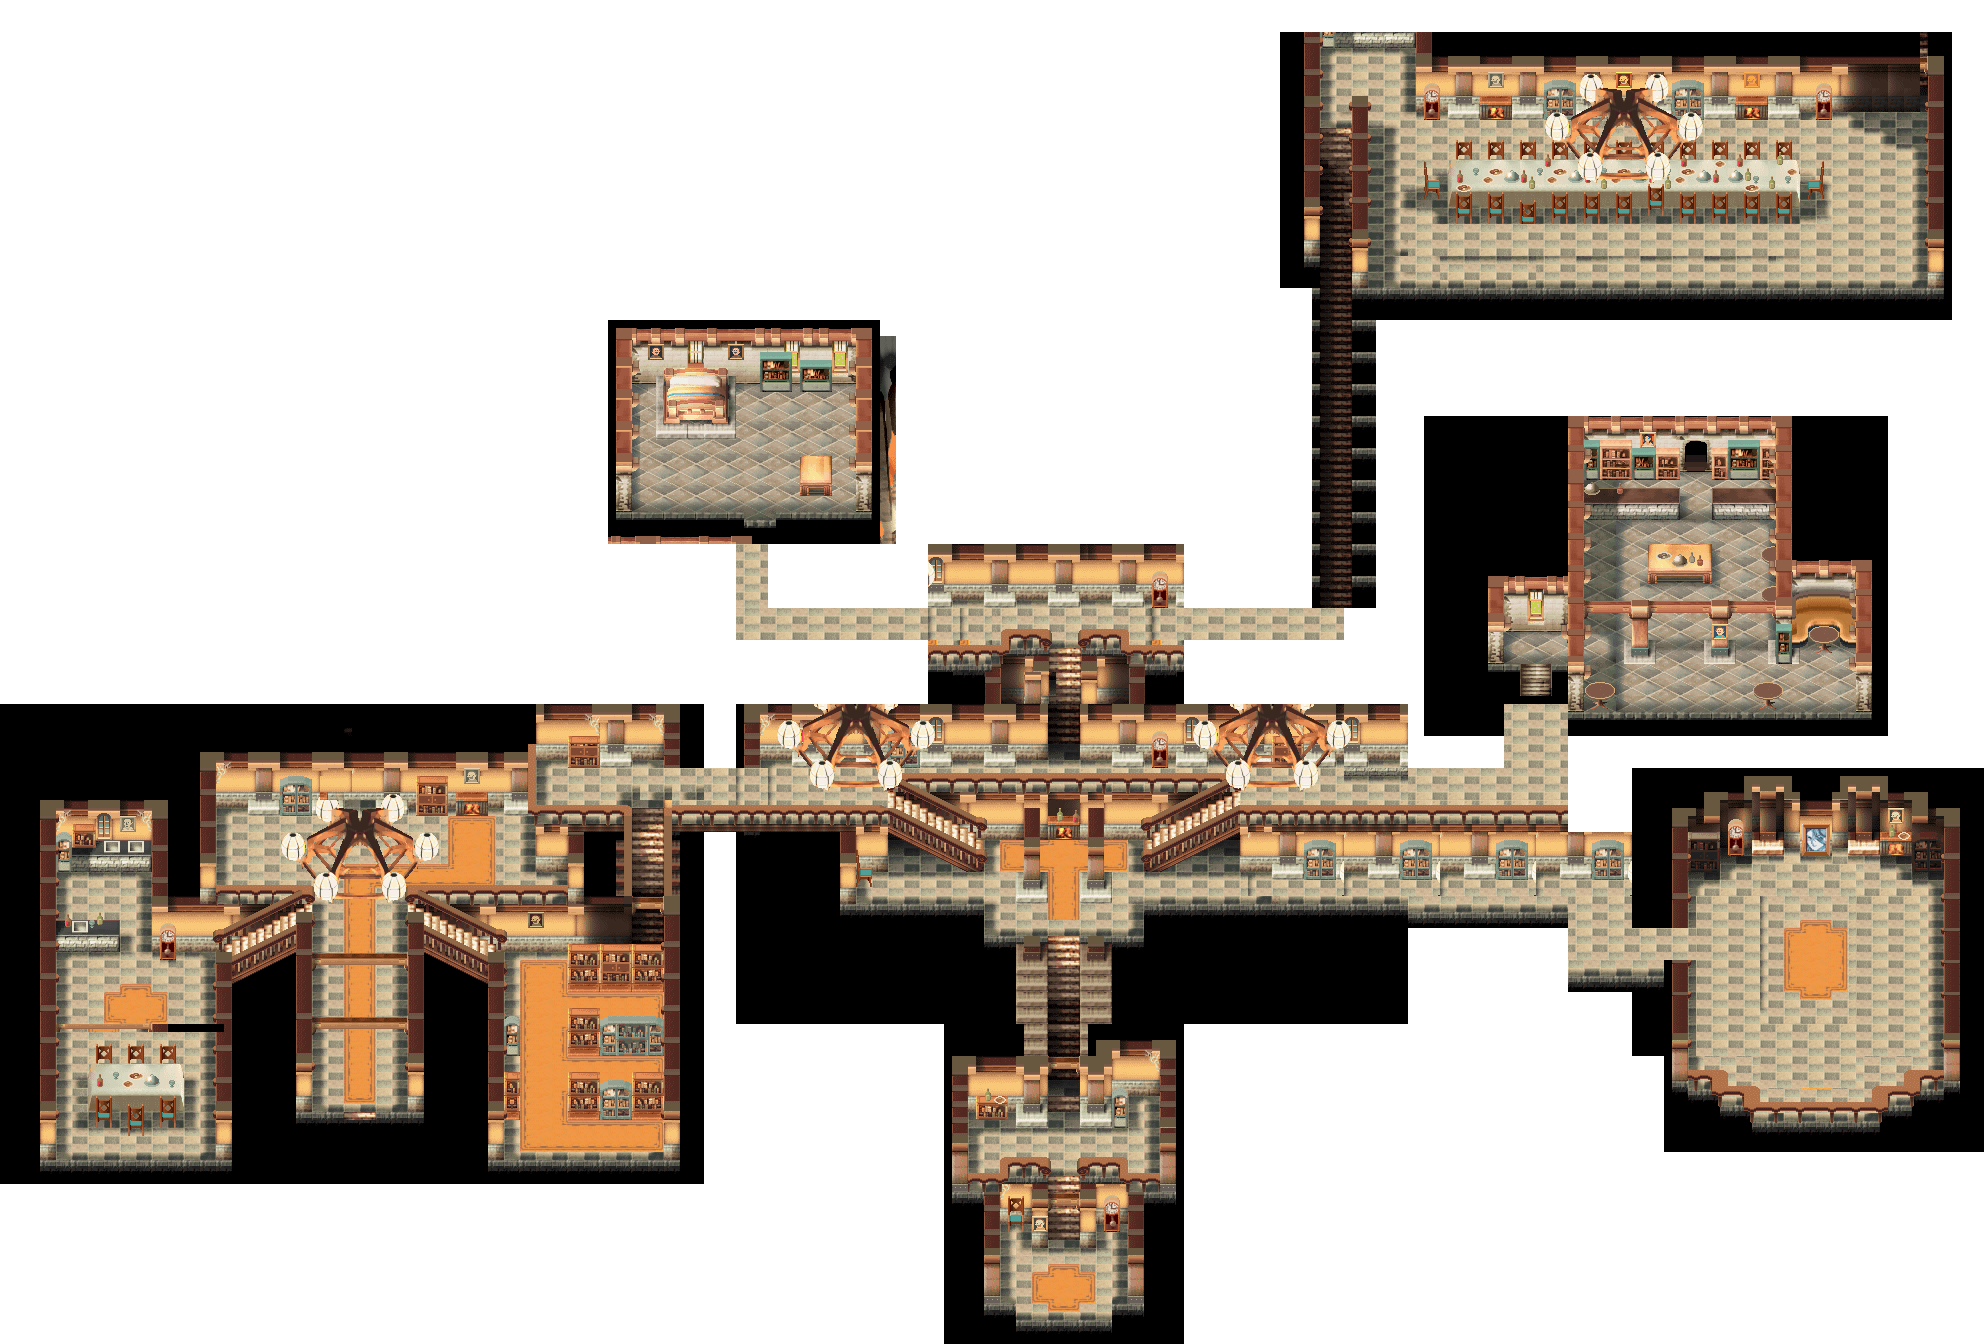
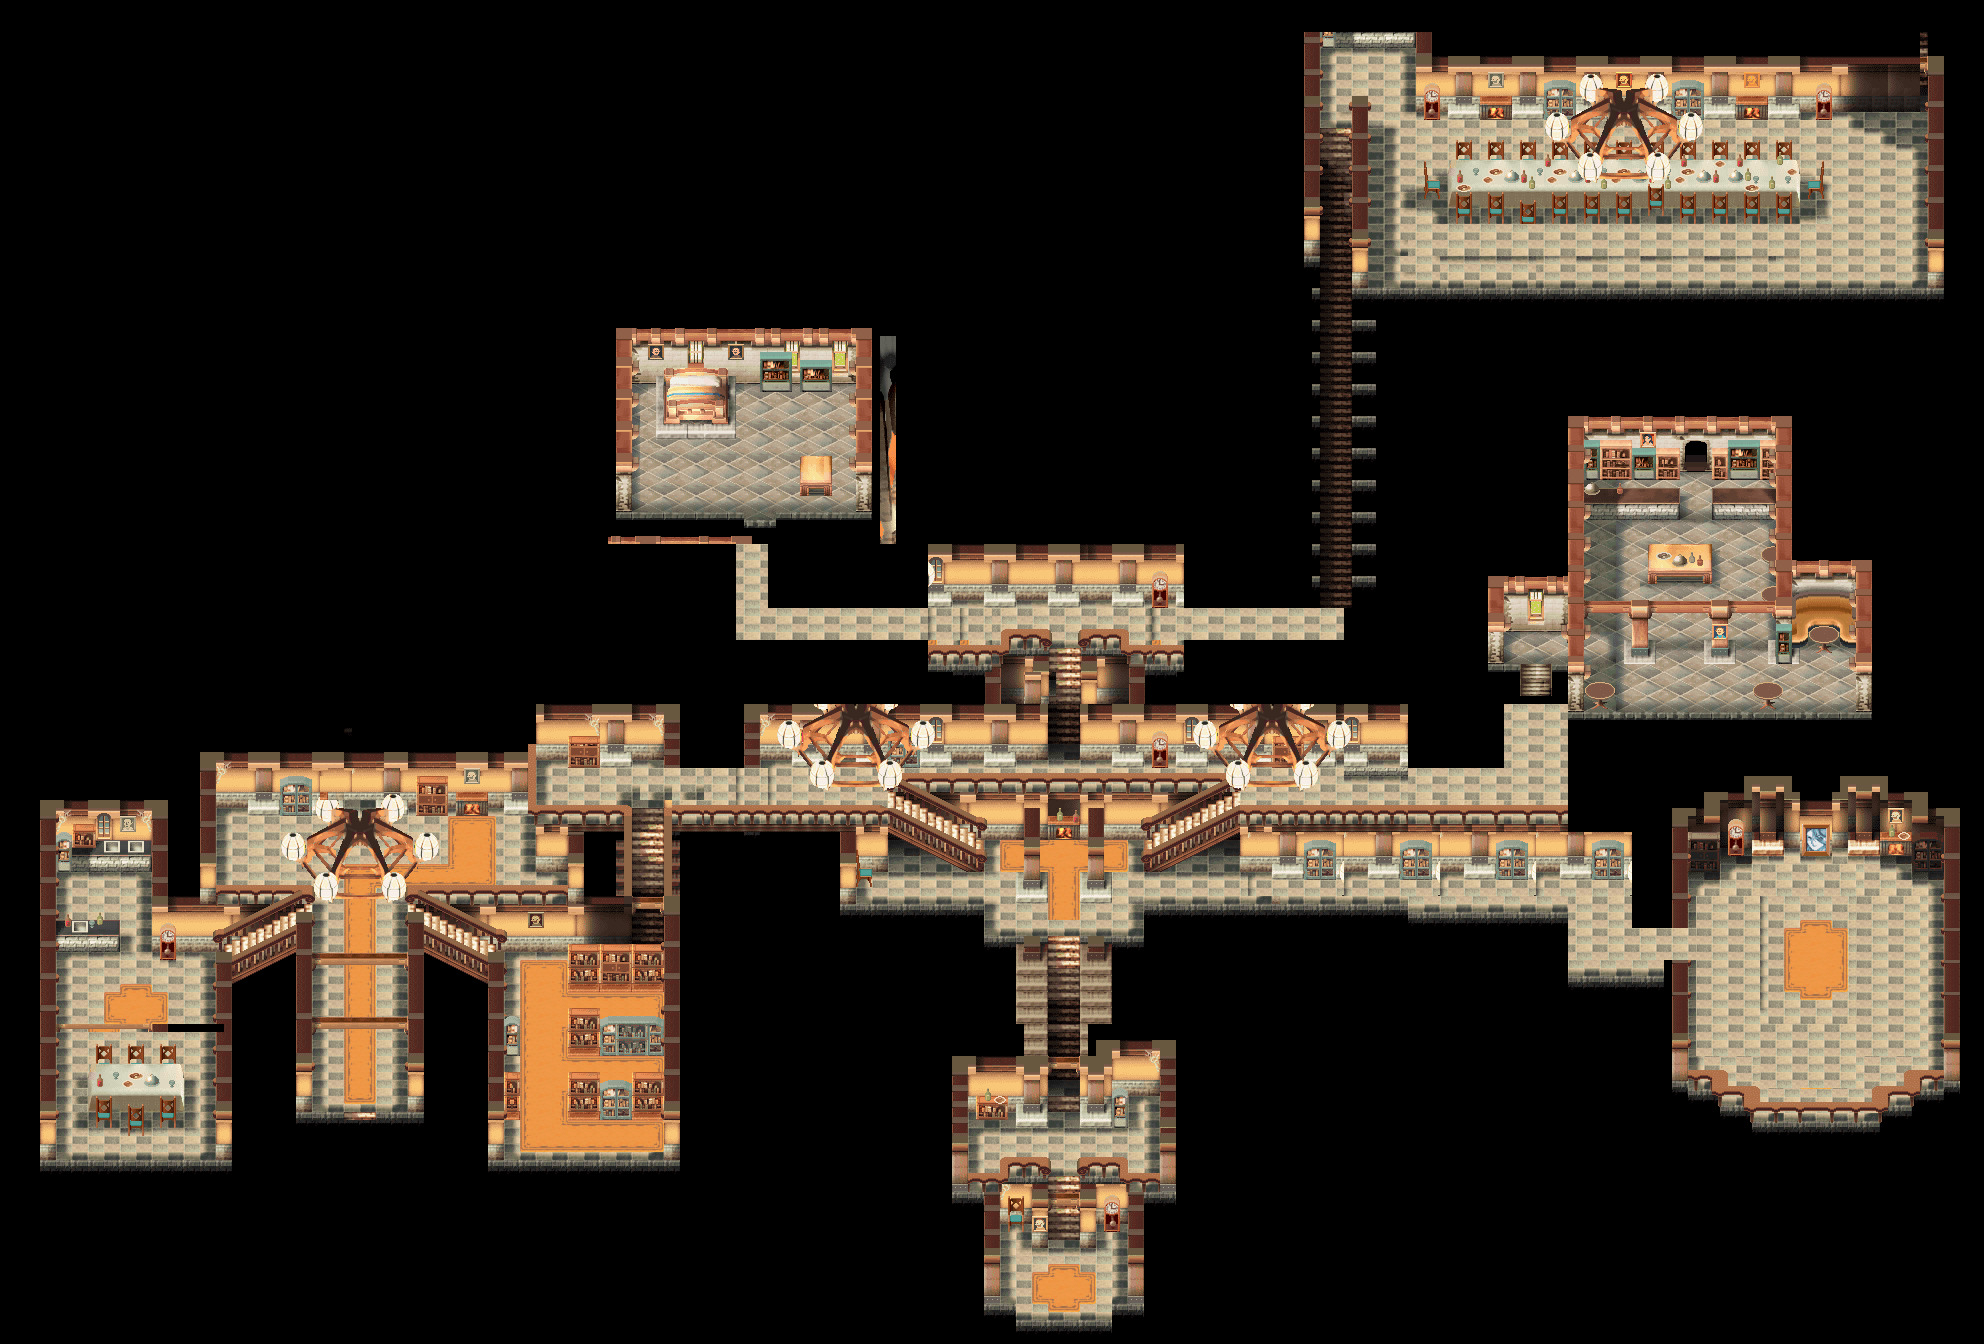
Correcciones en primera fase. Nuevo mapa, posiciones arregladas y scroll

diff --git a/src/intro.py b/src/intro.py
@@ -14,8 +14,11 @@ from pygame.locals import *
 VELOCIDAD_SOL = 0.1 # Pixeles por milisegundo
 
 
-MINIMO_X_JUGADOR = 50
+MINIMO_X_JUGADOR = 100
 MAXIMO_X_JUGADOR = ANCHO_PANTALLA - 100
+
+MINIMO_Y_JUGADOR = 100
+MAXIMO_Y_JUGADOR = ALTO_PANTALLA - 100
 
 class Intro(EscenaPygame):
     def __init__(self, director, jugador1):
@@ -46,20 +49,24 @@ class Intro(EscenaPygame):
         # De esta forma, se podrian tener muchas fases distintas con esta clase
 
         # Cargamos el decorado
-        self.image = load_image('../res/maps/primerinterior.png', -1)
-        self.image = pygame.transform.scale(self.image, (ANCHO_PANTALLA, ALTO_PANTALLA))
-
+#         self.image = load_image('../res/maps/primerinterior.png', -1)
+        self.image = load_image('../res/maps/mapa.png', -1)
+#         self.image = pygame.transform.scale(self.image, (ANCHO_PANTALLA, ALTO_PANTALLA))
+        self.image = pygame.transform.scale(self.image, (ANCHO_PANTALLA*2, ALTO_PANTALLA))
         self.rect = self.image.get_rect()
         self.rect.bottom = ALTO_PANTALLA
-
+        
         # Creamos el fondo
         #self.sol = Fondo('../res/maps/gransalon.png')
 
         # Que parte del decorado estamos visualizando
         self.posicionx = 0
+        self.posiciony = 0
         self.rectSubimagen = pygame.Rect(0, 0, ANCHO_PANTALLA, ALTO_PANTALLA)
-        self.rectSubimagen.left = self.posicionx
-
+#         self.rectSubimagen.left = self.posicionx
+#         self.rectSubimagen.bottom = self.posiciony
+        self.rectSubimagen.topleft = (self.posicionx, self.posiciony)
+        
         # Creamos las plataformas del decorado
         # La plataforma que conforma todo el suelo
         plataformaSuelo = Plataforma(pygame.Rect(0, 550, 1200, 15))
@@ -70,6 +77,97 @@ class Intro(EscenaPygame):
 
     def posicionesInicioJugadores(self):
         return self.inicioJugador1
+    
+    
+    # Desplaza todo el decorado y los objetos (plataformas, enemigos) que hay en el
+    def desplazarDecoradox(self, desplazamiento, jugadorAMover):
+        # Desplazamos el jugador a mover hacia el lado contrario
+        jugadorAMover.posicionx -= desplazamiento
+        jugadorAMover.rect.left = jugadorAMover.posicionx
+        # La imagen que se muestra hacia ese lado
+        self.posicionx += desplazamiento
+
+        # Actualizamos el grupo de plataformas para que tambien se desplacen al lado contrario
+        self.grupoPlataformas.update(-desplazamiento)
+
+        # Actualizamos cual es la parte de la imagen del decorado que se muestra en pantalla
+        self.rectSubimagen.left = self.posicionx
+        
+        # Desplaza todo el decorado y los objetos (plataformas, enemigos) que hay en el
+    def desplazarDecoradoy(self, desplazamiento, jugadorAMover):
+        # Desplazamos el jugador a mover hacia el lado contrario
+        jugadorAMover.posiciony -= desplazamiento
+        jugadorAMover.rect.top = jugadorAMover.posiciony
+        # La imagen que se muestra hacia ese lado
+        self.posiciony += desplazamiento
+
+        # Actualizamos el grupo de plataformas para que tambien se desplacen al lado contrario
+        self.grupoPlataformas.update(-desplazamiento)
+
+        # Actualizamos cual es la parte de la imagen del decorado que se muestra en pantalla
+        self.rectSubimagen.topleft = (self.posicionx, self.posiciony)
+    
+    def actualizarScroll(self, jugador1):
+#         if (jugador1.posicionx<=MINIMO_X_JUGADOR):
+#             jugador1.posicionx = MINIMO_X_JUGADOR
+#             return
+        # Si el jugador de la izquierda quiere moverse mas a la izquierda
+        if (jugador1.posicionx<MINIMO_X_JUGADOR):
+            desplazamiento = MINIMO_X_JUGADOR - jugador1.posicionx
+            jugador1.posicionx = MINIMO_X_JUGADOR
+
+            # Si el escenario ya está a la izquierda del todo, no lo movemos mas
+            if self.posicionx <= 0:
+                self.posicionx = 0
+
+            # Si se puede hacer scroll a la izquierda
+            else:
+                # Desplazamos todo el decorado a la izquierda, incluyendo el jugador que este en la derecha
+                self.desplazarDecoradox(-desplazamiento, jugador1)
+
+        # Si el jugador de la derecha quiere moverse mas a la derecha
+        if (jugador1.posicionx>MAXIMO_X_JUGADOR):
+            desplazamiento = jugador1.posicionx - MAXIMO_X_JUGADOR
+            jugador1.posicionx = MAXIMO_X_JUGADOR
+ 
+            # Si el escenario ya está a la derecha del todo, no lo movemos mas
+            if self.posicionx + ANCHO_PANTALLA >= self.image.get_rect().right:
+                self.posicionx = self.image.get_rect().right - ANCHO_PANTALLA
+ 
+            # Si se puede hacer scroll a la derecha
+            else:
+                # Desplazamos todo el decorado a la derecha, incluyendo el jugador que este en la izquierda
+                self.desplazarDecoradox(desplazamiento, jugador1)
+        
+        
+        # Si el jugador de la izquierda quiere moverse mas a la izquierda
+        if (jugador1.posiciony<MINIMO_Y_JUGADOR):
+            desplazamiento = MINIMO_Y_JUGADOR - jugador1.posiciony
+            jugador1.posiciony = MINIMO_Y_JUGADOR
+
+            # Si el escenario ya está a abajo del todo, no lo movemos mas
+            if self.posiciony <= 0:
+                self.posiciony = 0
+
+            # Si se puede hacer scroll a la izquierda
+            else:
+                # Desplazamos todo el decorado a la izquierda, incluyendo el jugador que este en la derecha
+                self.desplazarDecoradoy(-desplazamiento, jugador1)
+
+        # Si el jugador de la derecha quiere moverse mas a la derecha
+        if (jugador1.posiciony>MAXIMO_Y_JUGADOR):
+            desplazamiento = jugador1.posiciony - MAXIMO_Y_JUGADOR
+            jugador1.posiciony = MAXIMO_Y_JUGADOR
+ 
+            # Si el escenario ya está a la derecha del todo, no lo movemos mas
+            if self.posiciony + ALTO_PANTALLA >= self.image.get_rect().right:
+                self.posiciony = self.image.get_rect().right - ALTO_PANTALLA
+ 
+            # Si se puede hacer scroll a la derecha
+            else:
+                # Desplazamos todo el decorado a la derecha, incluyendo el jugador que este en la izquierda
+                self.desplazarDecoradoy(desplazamiento, jugador1)
+                
     # Se actualiza el decorado, realizando las siguientes acciones:
     #  Se actualizan los jugadores con los movimientos a realizar
     #  Se actualiza la posicion del sol y el color del cielo
@@ -82,10 +180,9 @@ class Intro(EscenaPygame):
         
         self.grupoJugadores.update(self.grupoPlataformas, tiempo)
         
-        
         # Actualizamos la posicion del sol y el color del cielo
         #self.sol.update(tiempo)
-
+        self.actualizarScroll(self.jugador1)
         
     def dibujar(self):
         # Ponemos primero el sol y cielo

diff --git a/src/personajes.py b/src/personajes.py
@@ -18,13 +18,13 @@ ARRIBA = 3
 ABAJO = 4
 
 #Posturas
-SPRITE_QUIETO = 0
+SPRITE_QUIETO = 3
 SPRITE_ANDANDO = 1
-SPRITE_SUBIENDO = 2
-SPRITE_BAJANDO = 3
+SPRITE_SUBIENDO = 0
+SPRITE_BAJANDO = 2
 
 # Velocidades de los distintos personajes
-VELOCIDAD_JUGADOR = 0.1 # Pixeles por milisegundo
+VELOCIDAD_JUGADOR = 0.05 # Pixeles por milisegundo
 VELOCIDAD_SALTO_JUGADOR = 0.3 # Pixeles por milisegundo
 RETARDO_ANIMACION_JUGADOR = 1 / VELOCIDAD_JUGADOR
 
@@ -50,7 +50,9 @@ def load_image(name, colorkey=None):
     if colorkey is not None:
         if colorkey is -1:
             colorkey = image.get_at((0,0))
+            print colorkey
         image.set_colorkey(colorkey, RLEACCEL)
+        print image.get_at((0,0))
     return image
 
 # -------------------------------------------------
@@ -95,7 +97,7 @@ class Personaje(pygame.sprite.Sprite):
         self.numImagenPostura = 0;
         cont = 0;
         self.coordenadasHoja = [];
-        for linea in range(0, 3):
+        for linea in range(0, 4):
             self.coordenadasHoja.append([])
             tmp = self.coordenadasHoja[linea]
             for postura in range(1, numImagenes[linea]+1):
@@ -180,10 +182,10 @@ class Personaje(pygame.sprite.Sprite):
         # Actualizamos la posicion
         self.posiciony += incrementoy
         self.rect.bottom = self.posiciony
-#         if (incrementoy>0):
-#             self.numPostura = SPRITE_SUBIENDO
-#         else:
-#             self.numPostura = SPRITE_BAJANDO
+        if (incrementoy<0):
+            self.numPostura = SPRITE_SUBIENDO
+        else:
+            self.numPostura = SPRITE_BAJANDO
 
     def update(self, grupoPlataformas, tiempo):
         # Si vamos a la izquierda
@@ -221,7 +223,7 @@ class Jugador(Personaje):
     "Cualquier personaje del juego"
     def __init__(self):
         # Invocamos al constructor de la clase padre con la configuracion de este personaje concreto
-        Personaje.__init__(self,'../res/Sprites/badass.png','../res/BadassCoordJugador.txt', [6, 12, 12], VELOCIDAD_JUGADOR, VELOCIDAD_SALTO_JUGADOR, RETARDO_ANIMACION_JUGADOR);
+        Personaje.__init__(self,'../res/Sprites/badass.png','../res/BadassCoordJugador.txt', [6, 6, 6, 1], VELOCIDAD_JUGADOR, VELOCIDAD_SALTO_JUGADOR, RETARDO_ANIMACION_JUGADOR);
 
 
     def mover(self, teclasPulsadas, arriba, abajo, izquierda, derecha):

diff --git a/src/fase.py b/src/fase.py
@@ -95,7 +95,6 @@ class Fase(EscenaPygame):
         self.posicionx = 0
         self.rectSubimagen = pygame.Rect(0, 0, ANCHO_PANTALLA, ALTO_PANTALLA)
         self.rectSubimagen.left = self.posicionx
-
         # Creamos las plataformas del decorado
         # La plataforma que conforma todo el suelo
         plataformaSuelo = Plataforma(pygame.Rect(0, 550, 1200, 15))
